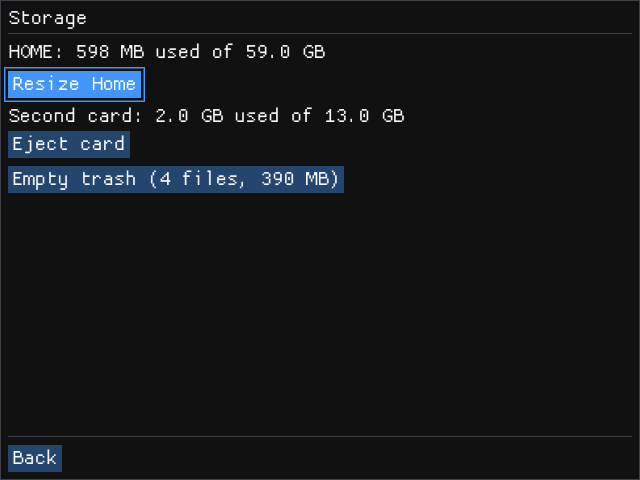
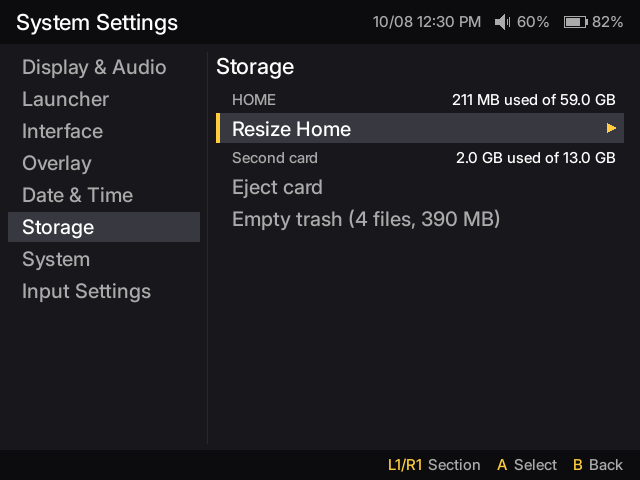
Puppy: START opens System Settings in the launcher
System Settings in Puppy is now what START opens on goodluckOS: no
loading screen on the way in or out, the launcher's style, and changes
(the language and the font too) applied on the spot. puppy.conf can
choose it with `settings = builtin | off`; the portable puppy.conf
says off, since its pages are goodluckOS's own, and settings_command
still wins over both.

A page now draws only the rows that fit whole: the last one no longer
shows cut in half above the footer (the scrollbar says there's more).
The Launcher tabs hint speaks of switches, not ticks.

README: System Settings is part of the launcher (features, the section
and its tree: Resize Home is a page of Storage, Input Settings has
Shortcuts and the Button Tester), how to move around its two panes,
step 6 of the install, and the screenshots, retaken in English with
the README set: the sections with Display & Audio, Launcher tabs
(new, in place of a Display & Audio page that the sections already
show), Overlay, Date & Time, System and Storage.

diff --git a/rootfs/package/puppy/src/config.h b/rootfs/package/puppy/src/config.h
@@ -35,7 +35,7 @@ struct Config {
     std::string shutdownCommand = "doas /usr/local/bin/power-action.sh poweroff";
     std::string screenOffCommand = "doas /usr/local/bin/toggle-screen.sh off";
     bool quit = false;      // a "Quit Puppy" power option, for when Puppy is started from another frontend
-    bool builtinSettings = false;   // START opens System Settings in Puppy (goodluckOS); settings_command wins
+    bool builtinSettings = true;    // START opens System Settings in Puppy (puppy.conf: settings = builtin|off); settings_command wins
 
     std::string settingsFile() const  { return configDir + "/settings"; }
     std::string favoritesFile() const { return configDir + "/favorites"; }   // "category<TAB>id" lines

diff --git a/rootfs/package/puppy/src/settings_pages.cpp b/rootfs/package/puppy/src/settings_pages.cpp
@@ -88,7 +88,7 @@ std::string SettingsScreen::title(Page p) const {
 // Under the page, when the selected row has no hint of its own
 std::string SettingsScreen::pageHint(Page p) const {
     switch (p) {
-        case Page::Tabs: return tr("Unticked tabs are hidden; their games still show in All Games and My List.");
+        case Page::Tabs: return tr("Tabs switched off are hidden; their games still show in All Games and My List.");
         case Page::System: return tr(powerProfiles()[profile].hint);
         case Page::Resize:
             if (resize.pending)

diff --git a/rootfs/package/puppy/src/settings.cpp b/rootfs/package/puppy/src/settings.cpp
@@ -433,7 +433,7 @@ void SettingsScreen::renderPage(Ui& ui) {
     SDL_Rect clip{kPageX, top, width, room};
     SDL_RenderSetClipRect(renderer, &clip);
     int y = top;
-    for (int k = c.scroll; k < n && y < bottom; ++k) {
+    for (int k = c.scroll; k < n && y + list[k].height() <= bottom; ++k) {   // whole rows only
         const Row& row = list[k];
         const bool sel = inPage && k == c.sel;
         const int h = row.height();

diff --git a/README.md b/README.md
@@ -41,7 +41,7 @@ Please Note: At the time of writing, Allwinner-A23 based GA36-MB devices (which 
 - Comes stock with Retroarch and several optimized cores (PCSX-ReArmed, Snes9x, QuickNES, DOSbox, Genesis Plus GX, mGBA, etc)
 - Games perform very well. Metal Gear Solid 1 is completely playable at reasonable framerates
 - Comes with a custom, optimized launcher application, with tabs per system, search, favourites and game artwork/descriptions from `gamelist.xml`
-- System Settings app: brightness, volume, audio output, launcher options, language, interface font, overlay, date and time, power mode (Battery saver, Balanced, Performance), system info, a button tester and a restore of the default settings
+- System Settings, in the launcher: brightness, volume, audio output, launcher options, language, interface font, overlay, date and time, storage (second card, trash, Resize Home), power mode (Battery saver, Balanced, Performance), system info, a button tester and a restore of the default settings
 - Translatable interface, with English and Brazilian Portuguese included (see [Translations](#translations))
 - Autostart any application on boot, including games or a front-end like EmulationStation (coming soon)
 - USB terminal access for remote debugging. Log in with `sudo screen /dev/ttyACM* 115200` and `root:root`
@@ -149,7 +149,7 @@ FN is the hotkey:
 The same list is in System Settings -> Input Settings, next to a button tester.
 
 ## System Settings
-Opened with START from the launcher. Its main page is a menu of sections, each with its own page:
+Opened with START from the launcher, which it is part of: there's no loading screen on the way in or out, and the launcher comes back as you left it. The sections are on the left, and the page of the selected one on the right:
 
 ```
 System Settings
@@ -187,7 +187,7 @@ System Settings
 │   └── Time zone
 ├── Storage
 │   ├── HOME usage
-│   ├── Resize Home
+│   ├── Resize Home ─ the card's and HOME's sizes, and the resize
 │   ├── Second card: usage, Eject card / Detect card
 │   └── Empty trash
 ├── System
@@ -195,7 +195,7 @@ System Settings
 │   ├── System Info
 │   └── Restore default settings
 └── Input Settings
-    ├── every shortcut
+    ├── Shortcuts ─ every shortcut
     └── Button Tester
 ```
 
@@ -204,27 +204,28 @@ System Settings
 - **In-game status bar**: the CPU temperature, the power chip (AXP223) temperature, the date, the time, the battery and the volume and audio output, each one on or off, in the top right corner of every game, with the launcher's icons; Opacity sets its background. All off by default, so nothing covers the game. The launcher keeps its own top bar.
 - **Performance**: the Gallium HUD graphs that FN + D-pad up shows in game. Text only goes at the top.
 - Overlay changes apply from the next game on.
-- **Date & Time**: the date format and 12/24 hours (12-hour by default) of the launcher's top bar clock, which always shows the date and the time, and of the in-game status bar, which shows what Overlay turns on. The clock chip keeps the time while the console is off, so it only needs setting once; the time zone applies to the apps opened afterwards.
+- **Date & Time**: the date format and 12/24 hours (12-hour by default) of the launcher's top bar clock, which always shows the date and the time, and of the in-game status bar, which shows what Overlay turns on. The clock chip keeps the time while the console is off, so it only needs setting once; the time zone applies to the launcher right away and to the apps opened afterwards.
+- **Resize Home**: expands HOME to fill the rest of the card, at the next boot (it asks first, then restarts). HOME is backed up to RAM while it's resized, so do it right after flashing, before copying your games.
 - **Empty trash**: deletes for good the games moved to the trash in the launcher.
 - **Power mode**: Balanced (the default) speeds the CPU and GPU up only when a game needs it; Battery saver caps the CPU at 816 MHz and the GPU at 240 MHz, for a longer battery life (heavy PS1 games may slow down); Performance keeps both at full speed. The choice is kept across reboots.
 - **Restore default settings**: puts Overlay, Date & Time, the launcher's view, tabs and font, and the power mode back to the defaults in `/usr/share/goodluck/defaults`, keeping the language, the time zone and the clock.
 
-B goes back one page; Back stays at the bottom of every page. Changes are saved as soon as you make them. The page scrolls with the d-pad when it doesn't fit the screen.
+UP / DOWN pick a section and A or RIGHT opens its page; there, LEFT / RIGHT change the selected setting (A opens the list of choices, or turns a switch on or off), B goes back, and L1 / R1 go to the previous / next section from anywhere. START closes System Settings, and POWER opens the power options here too. A change applies and is saved right away, the language and the font included. A page scrolls with the d-pad when it doesn't fit the screen.
 
 VT323 and Pixelify Sans are under the SIL Open Font License and ProggyClean under the MIT License; their license files are next to them in `/usr/share/fonts`.
 
-| Main page | Display & Audio |
+| Sections, with Display & Audio | Launcher tabs |
 | --- | --- |
-| ![System Settings](docs/screenshots/system-settings.png) | ![Display & Audio](docs/screenshots/system-settings-audio.png) |
+| ![System Settings](docs/screenshots/system-settings.png) | ![Launcher tabs](docs/screenshots/system-settings-tabs.png) |
 | Overlay | In-game status bar |
 | ![Overlay](docs/screenshots/system-settings-overlay.png) | ![In-game status bar](docs/screenshots/status-bar.png) |
 | Date & Time | Performance overlay in game (FN + D-pad up) |
 | ![Date & Time](docs/screenshots/system-settings-datetime.png) | ![Performance overlay in game](docs/screenshots/performance-overlay.png) |
-| System (Power mode) | |
+| System (Power mode) | Storage: the second card and the trash |
 | ![System](docs/screenshots/system-settings-system.png) | ![Storage: the second card and the trash](docs/screenshots/system-settings-storage.png) |
 
 ## Translations
-Every text in the launcher, System Settings, the confirmation screens and `Resize Home` can be translated, and new languages need no code changes. Languages live in `/usr/share/goodluck/lang/<code>.lang` (in the repository: `rootfs/board/my-device/rootfs-overlay/usr/share/goodluck/lang/`) and show up in System Settings -> Interface -> Language as soon as the file is there.
+Every text in the launcher, System Settings included, and in the console's messages ("Restarting...") can be translated, and new languages need no code changes. Languages live in `/usr/share/goodluck/lang/<code>.lang` (in the repository: `rootfs/board/my-device/rootfs-overlay/usr/share/goodluck/lang/`) and show up in System Settings -> Interface -> Language as soon as the file is there.
 
 To add a language:
 1. Copy `pt-BR.lang` to a file named after your language's code, e.g. `es.lang` or `fr.lang`.
@@ -254,7 +255,7 @@ Stock firmware:
 3. Open the [Firmware Builder](https://codezombie.github.io/goodluckOS/download.html), load your card image and the goodluckOS image, and download your personalised image. Don't flash the release image directly: without your board's boot data it won't start.
 4. Flash your image to a good microSD card of at least 1gb with [balenaEtcher](https://etcher.balena.io/), [Rufus (in DD mode)](https://rufus.ie/en/), [dd](https://man7.org/linux/man-pages/man1/dd.1.html), etc
 5. Plug the micro SD card into TF Slot 1 (TF1-OS) on your GA36-MB and power it on.
-6. [optional] Select the `Resize Home` application in the launcher (or in System Settings) to expand your HOME partition to fill all the remaining space on your SD card. Do it before copying your games: HOME is backed up to RAM while it's resized. You only need to do this once, after that it's hidden from the launcher.
+6. [optional] In System Settings -> Storage, `Resize Home` expands your HOME partition to fill all the remaining space on your SD card. Do it before copying your games: HOME is backed up to RAM while it's resized. You only need to do this once.
 
 ## How do I add games?
 Plug the console into your PC with a USB cable and open `goodluckOS -> HOME` (Windows: This PC; Linux: your file manager; macOS needs an MTP app such as [OpenMTP](https://openmtp.ganeshrvel.com/)). Or plug the SD card into your PC and open up the HOME partition. In there you'll find a `roms` folder with a few subfolders for each system. Add your roms to those.
